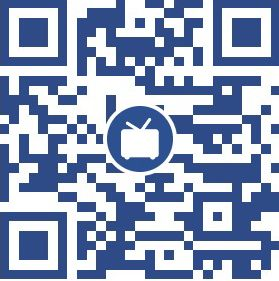
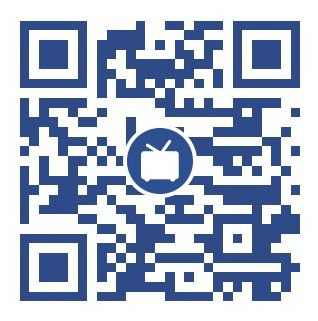
时间线动画溢出修改，B站二维码添加

diff --git a/src/components/timeLine/timeLine.vue b/src/components/timeLine/timeLine.vue
@@ -1,9 +1,9 @@
 <template>
     <div class="timeline-small absolute">
         <div class="timeline-small-body">
-            <div class="year-bubble pointer relative ml-16 h-30 bold flex absolute-center mt-4">
+            <div id="bubble" class="year-bubble pointer relative ml-16 h-30 bold flex absolute-center mt-4">
                 <span v-if="year">{{ year }}</span>
-                <svg-icon v-else slot="reference" icon-class="timeExperience" class="icon-space pointer h-40 mt-1"></svg-icon>
+                <svg-icon v-else slot="reference" icon-class="timeLine" class="icon-space pointer h-40 ml-1 mt-1"></svg-icon>
             </div>
             <ul>
                 <li class="pointer" @mouseover="changeYears(index)" @mouseleave="rollBackStyle(index)" v-for="(item, index) in experienseList" :key="index">
@@ -40,10 +40,13 @@ export default {
                 this.year = this.experienseList[index].date.split('年')[0]
                 document.getElementById(`bullet${index}`).style.border = '5px solid #A6DB6D'
                 document.getElementById(`bullet${index}`).style.transition = 'border 0.2s'
+                document.getElementById('bubble').style.textShadow = '2px 2px 2px rgba(0,0,0,0.5)'
+                document.getElementById('bubble').style.transition = 'text-shadow 0.5s'
             })
         },
         rollBackStyle(index) {
             document.getElementById(`bullet${index}`).style.border = '3px solid #A6DB6D'
+            document.getElementById('bubble').style.textShadow = ''
         }
     }
 }
@@ -54,22 +57,20 @@ export default {
     border-radius: 50%;
     width: 100px;
     height: 100px;
-    margin: auto;
     background: no-repeat 50%/70% #eee;
     color: #69ca62;
-    box-shadow: 0 0 0 6px rgba(105, 202, 98, 0.5); /* inset 为内阴影，设置后阴影方向在边框内部 */
+    box-shadow: inset 0 0 0 5px rgba(105, 202, 98, 0.5); /* inset 为内阴影，设置后阴影方向在边框内部 */
 
 }
 .year-bubble::before, .year-bubble::after {
     position: absolute;
-    border-radius: 50%;
     top: 0; bottom: 0; left: 0; right: 0;
 }
 /*定义两个伪类的样式及动画开始*/
 .year-bubble::before, .year-bubble::after {
     content: '';
     z-index: -1;
-    margin: -5%;
+    margin: -3%;
     border-radius: 50%;
     box-shadow: 0 0 0 2px;
     animation: clipMe 8s linear infinite;
@@ -99,10 +100,10 @@ export default {
 // }
 @keyframes clipMe {
     0%, 100% {
-        clip: rect(0px, 220.0px, 2px, 0px); /* 描边 */
+        clip: rect(-4px, 220.0px, 2px, -4px); /* 描边 */
     }
     25% {
-        clip: rect(0px, 2px, 220.0px, 0px);
+        clip: rect(-4px, 2px, 220.0px, -4px); /* 防止遮挡，定位边框位置为-4px，不然会出现断层 */
     }
     50% {
         clip: rect(218.0px, 220.0px, 220.0px, 0px);

diff --git a/src/styles/timeline.scss b/src/styles/timeline.scss
@@ -2,7 +2,6 @@
     width: 800px;
     height: 330px;
     overflow: hidden;
-    margin: 30px auto 0;
     border-radius: 8px;
     transition: box-shadow 0.5s;
     box-shadow: 2px 2px 20px 2px rgba(0,0,0,0.7);
@@ -20,7 +19,7 @@
 }
 .timeline-small-body ul::before {
     content: ' ';
-    height: calc(100% + 10px);
+    height: calc(100% + 5px);
     margin-bottom: 8px;
     width: 5px;
     background-color: #d9d9d9;
@@ -40,7 +39,7 @@
 .timeline-small-body li:hover {
     transition: text-shadow 0.5s;
     color: #69ca62;
-    text-shadow: 2px 2px 2px rgba(255,255,255,0.7);
+    text-shadow: 2px 2px 2px rgba(0,0,0,0.7);
 }
 .timeline-small-body .bullet {
     width: 1.55rem;
